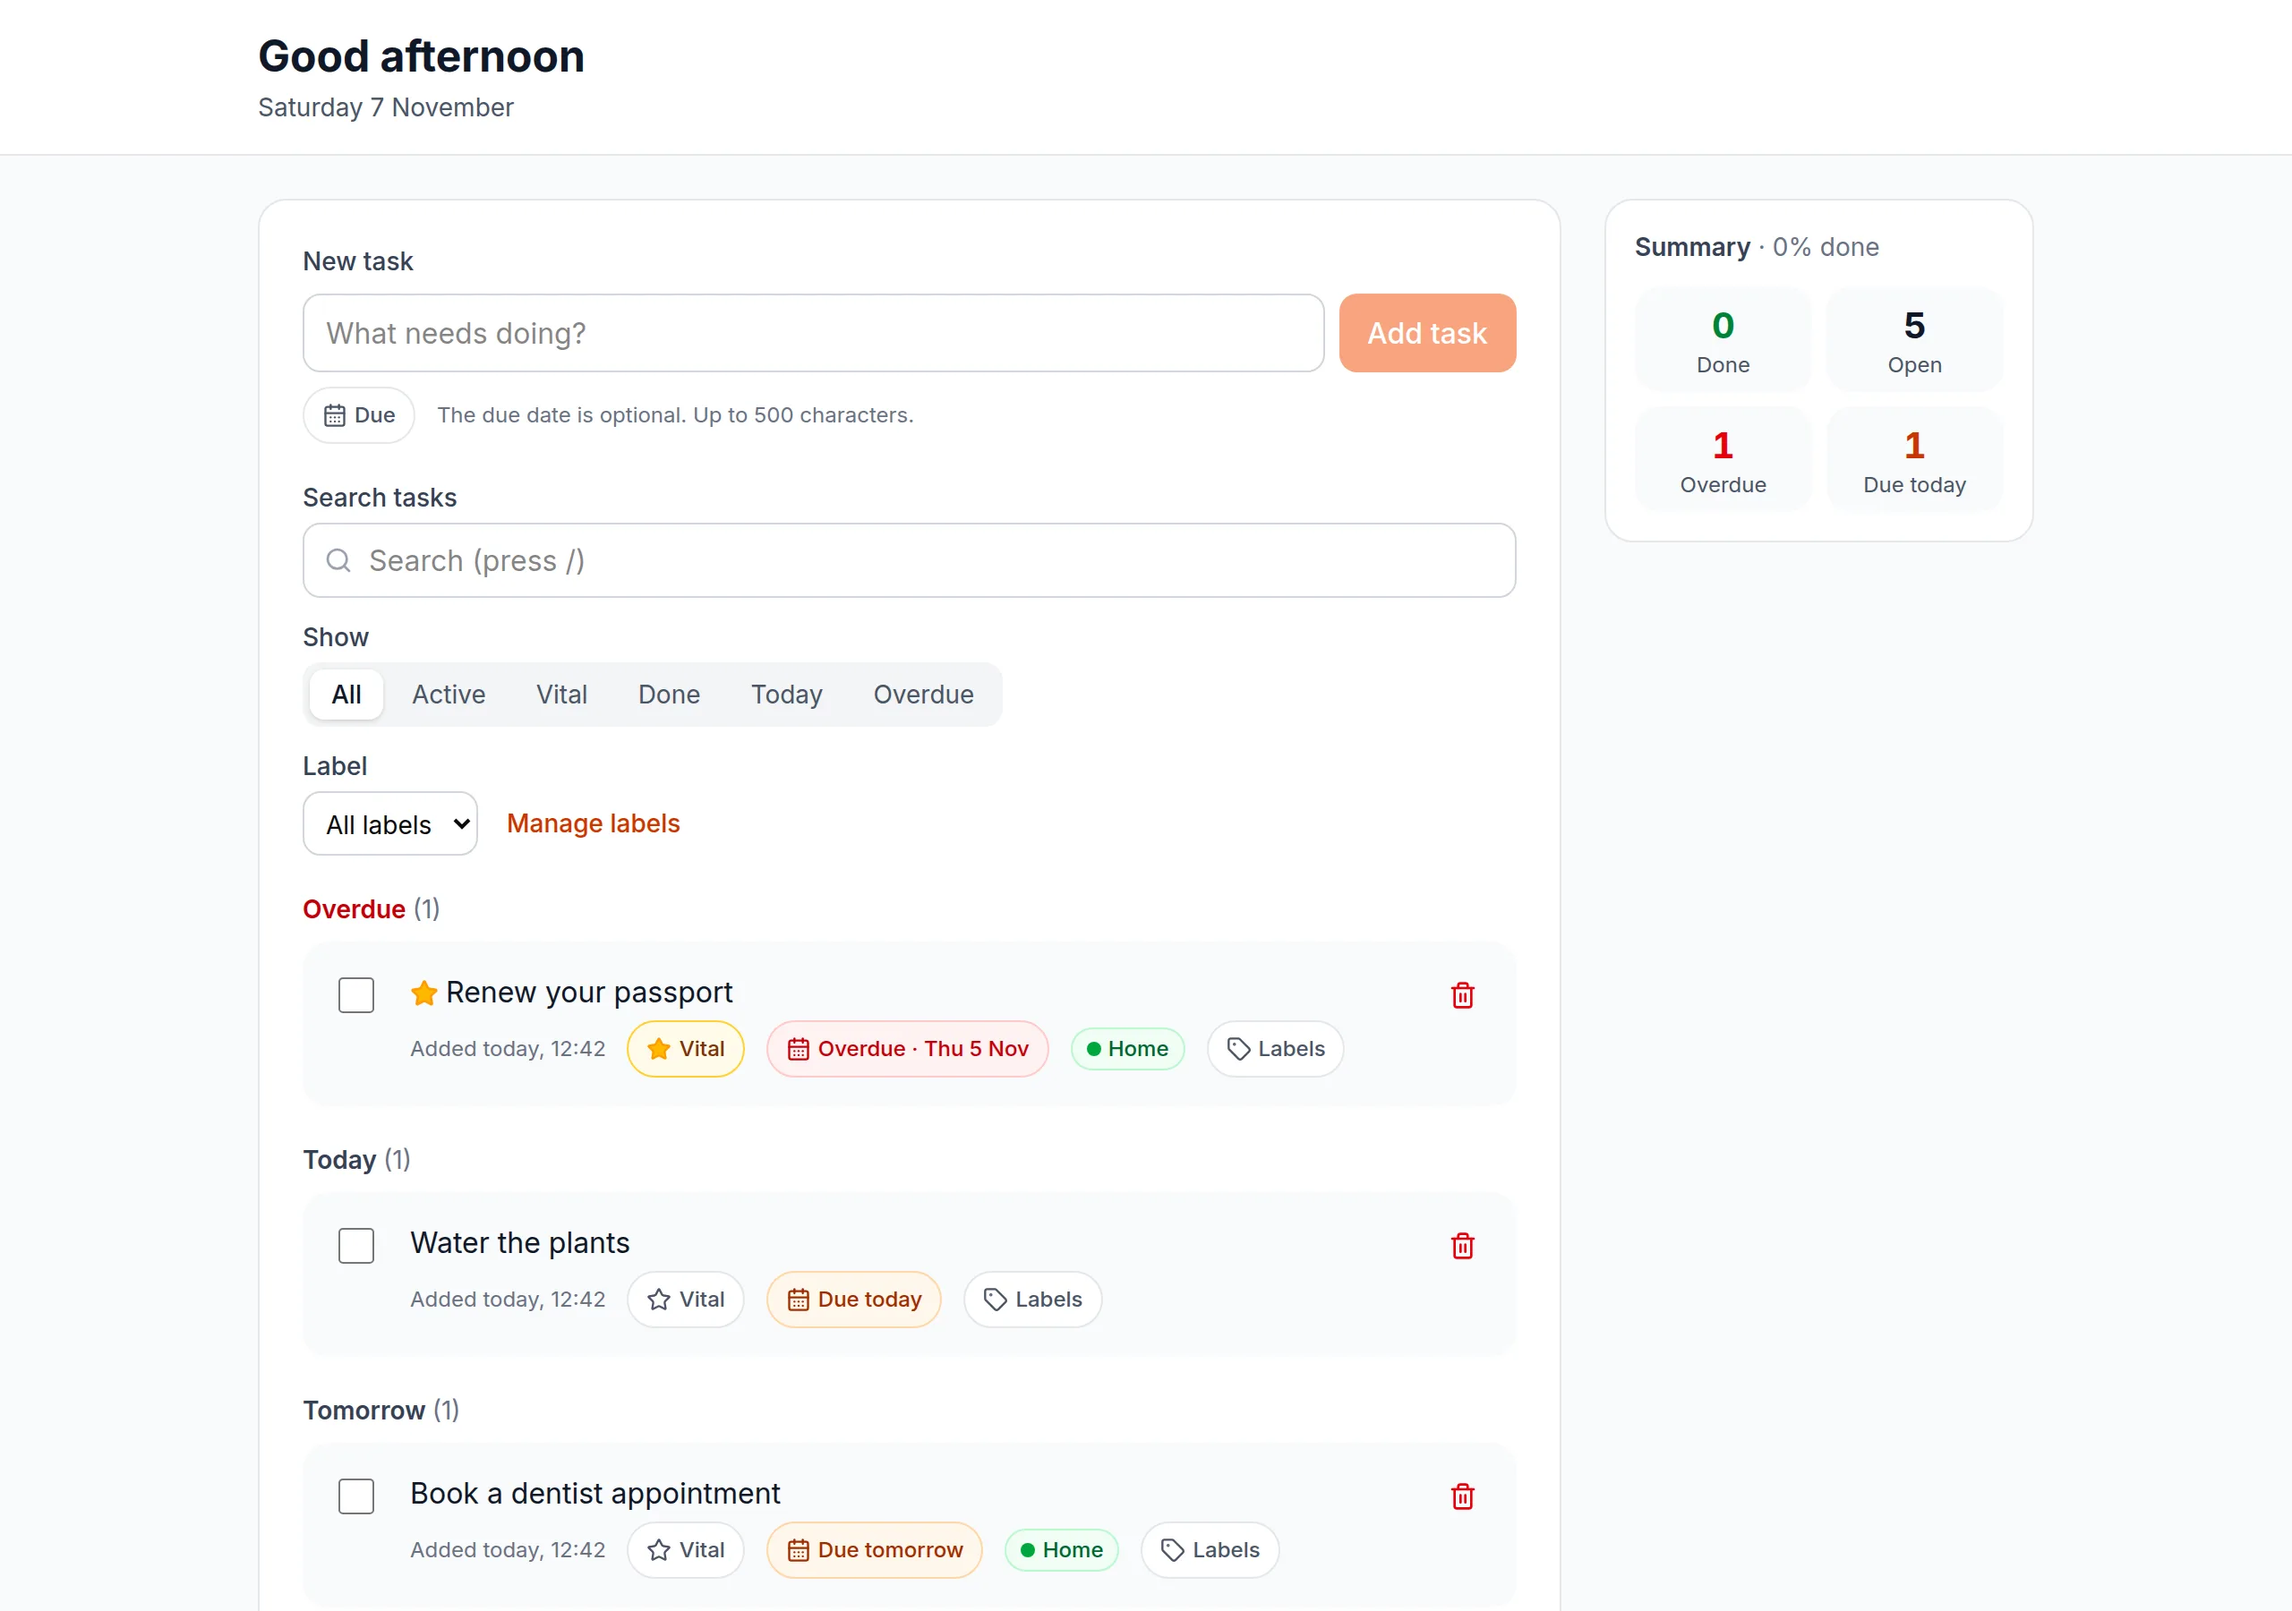
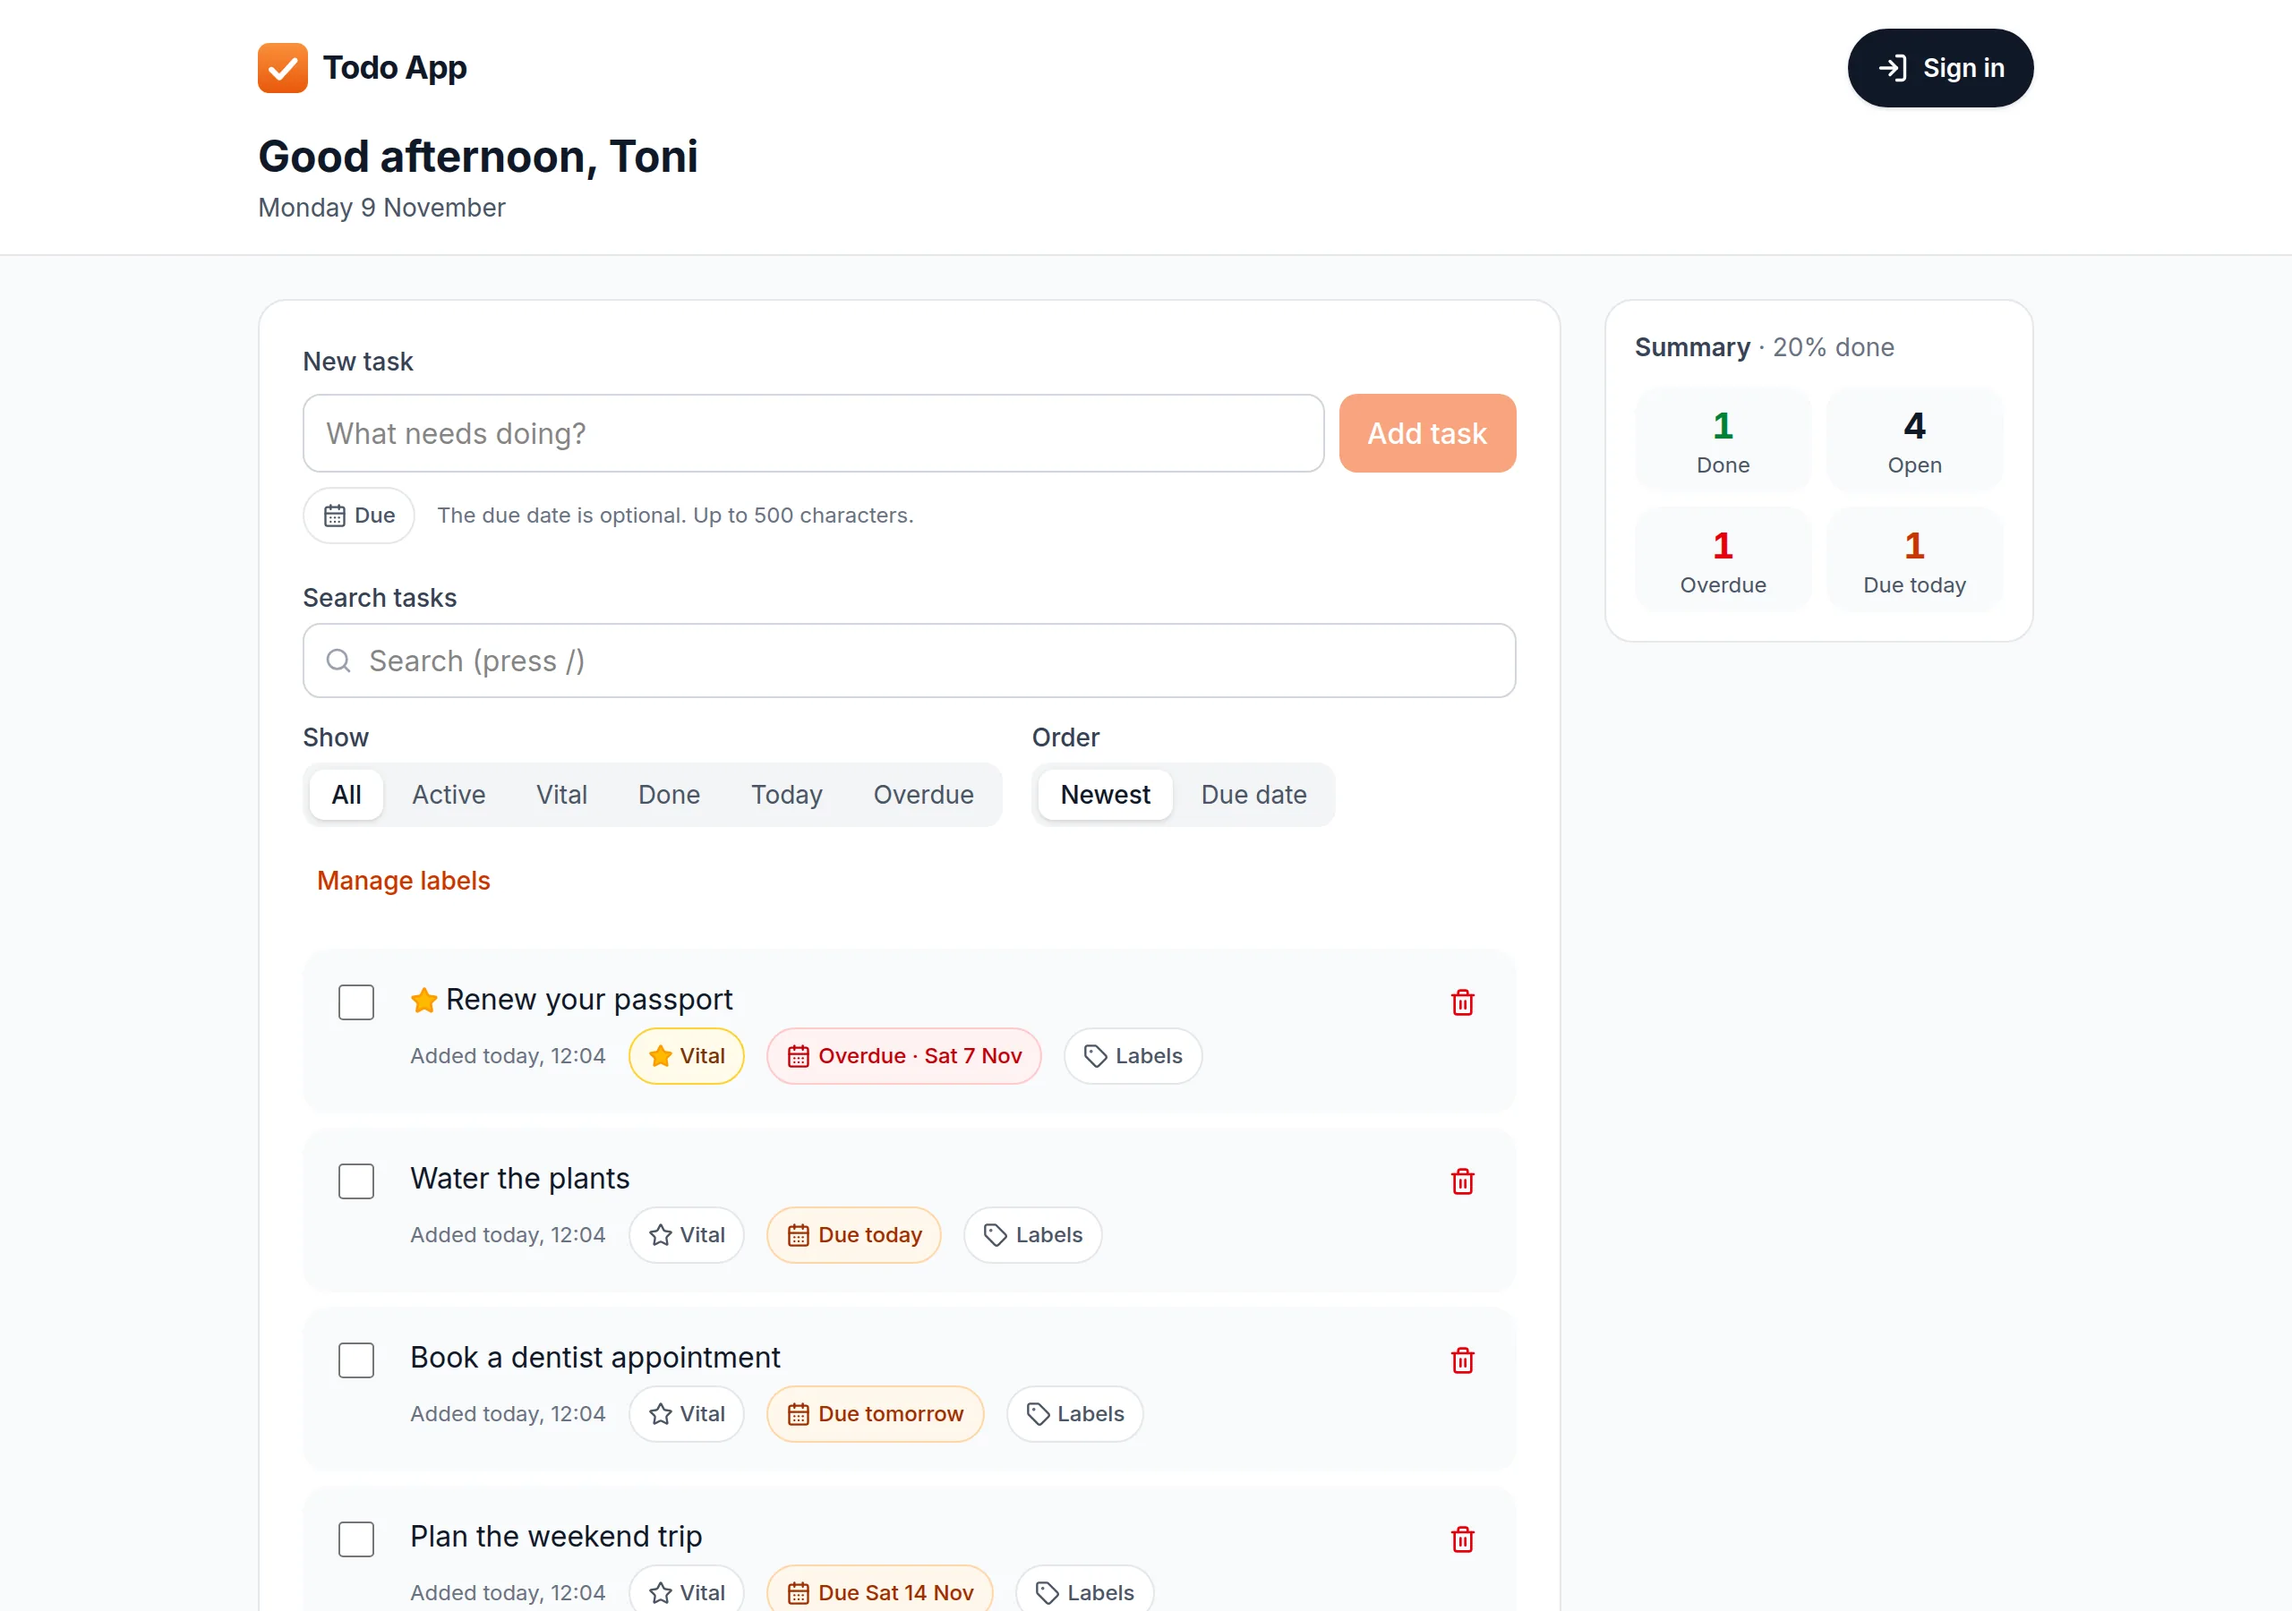
docs: the Phase 12 README, with screenshots and a demo GIF recorded from the current build

diff --git a/README.md b/README.md
@@ -1,26 +1,76 @@
 # Todo App
 
-A task list that keeps everything on your device: no account, nothing lost, and it's built for a phone first.
+A task list that lives on your device, works offline, and syncs across your devices only if you sign in.
 
-**[Open the live app →](https://todo-app-tsc-mauve.vercel.app/)**
+**[Open the live app →](https://todo.anthonyugwuja.dev)**
 
 <p>
-  <img src="docs/screenshots/app-phone.webp" alt="The app on a phone: a greeting with today's date, search and filters, then tasks grouped into Overdue and Today, each with when it was added, a due-date chip and labels." width="260">
-  <img src="docs/screenshots/app-desktop.webp" alt="The app on a desktop: the add form, search, filters and grouped tasks on the left, and a summary of done, open, overdue and due-today counts on the right." width="560">
+  <img src="docs/screenshots/app-phone.webp" alt="The app on a phone: the Todo App wordmark and a Sign in button, a greeting with today's date, search, the Show filters, the Order switch set to Newest, and the first tasks, each with when it was added, a Vital star and a due-date chip." width="260">
+  <img src="docs/screenshots/app-desktop.webp" alt="The app on a desktop: the add form, search, filters and the Order switch above the task list on the left, and a summary on the right showing 1 done, 4 open, 1 overdue and 1 due today." width="560">
 </p>
 
-- **Grouped by when it's due:** Overdue, Today, Tomorrow, Upcoming, No date and Done, re-grouped at midnight.
-- **Add, edit in place, complete, and delete with Undo** (Ctrl+Z works too).
-- **Vital tasks and colour labels**, with search and filters that survive a reload.
-- **Local-first:** your tasks live in your browser's IndexedDB and are never overwritten. Edits made in two tabs at once don't silently replace each other.
-- **Keyboard and screen-reader friendly:** `n` adds, `/` searches, there's a skip link, and axe finds no violations, contrast included.
+<picture>
+  <source media="(prefers-reduced-motion: reduce)" srcset="docs/screenshots/demo-still.webp">
+  <img src="docs/screenshots/demo.gif" alt="A ten-second recording: typing &quot;Buy oat milk&quot; adds it at the top of the list; ticking it moves it to the bottom, struck through; deleting it shows &quot;Deleted&quot; with an Undo button; pressing Undo brings it back." width="489">
+</picture>
+
+## Features
+
+- **Newest first or by due date:** a task you add appears at the top. Switch to Due date for Overdue, Today, Tomorrow, Upcoming, No date and Done groups, regrouped at midnight.
+- **Add, edit in place, complete, and delete with Undo** (Ctrl+Z or ⌘Z works too).
+- **Vital tasks and colour labels**, with search, filters and the order kept in the URL, so they survive a reload.
+- **Works offline and installs like an app:** everything it needs is cached on the first visit, so it opens and works without a connection.
+- **Optional Google sign-in** syncs tasks, labels and your greeting name across devices. Without it, nothing leaves the device.
+- **Nothing you write is lost:** edits in two tabs don't silently overwrite each other, and a deleted task stays deleted on every device.
+- **Keyboard and screen-reader friendly:** `n` adds, `/` searches, there's a skip link, changes are announced, and axe finds no violations.
+
+## How it's built
+
+1. **Local-first store:** IndexedDB through Dexie is the only thing the interface reads, so the app never waits on the network.
+2. **Optional sync:** signed in, rows push and pull in batches to Supabase Postgres under row-level security. A database trigger settles conflicts: last write wins, and a delete is final.
+3. **Static export:** `next build` emits plain files. There's no server of our own; the browser talks to Supabase directly.
+4. **Service worker:** precaches every exported file, never touches Supabase or Google requests, and only swaps versions when you press Reload.
+5. **Tests:** about 340 Vitest and Testing Library tests, axe checks, and database tests that prove one user can't read or write another's rows.
+
+Next.js 16 · React 19 · TypeScript · Tailwind CSS 4 · Dexie · Supabase · Vitest
 
 ## Run it
+
+You need Node 22.13 or later and pnpm.
 
 ```bash
 pnpm install
 pnpm dev        # http://localhost:3000
-pnpm test       # Vitest + Testing Library
+pnpm test       # unit and component tests
 ```
 
-Built with Next.js 16, React 19, TypeScript, Tailwind CSS 4 and Dexie. The reasoning behind each choice, including every adversarial code review and how it was answered, is in [`docs/decisions.md`](docs/decisions.md).
+Without a `.env.local`, the app runs guest-only: everything works on the device and the Sign in button is hidden. To turn on accounts, copy the example file and fill it in from your Supabase project (Project Settings → API Keys) and your Google OAuth client. Every value is public by design; the secret key is never needed.
+
+```bash
+cp .env.example .env.local
+```
+
+The service worker registers only in production builds:
+
+```bash
+pnpm build      # writes out/ and out/sw.js
+pnpm start      # serves out/ at http://localhost:3000
+```
+
+The database tests run against a local Supabase stack, which needs Docker:
+
+```bash
+pnpm test:db    # starts the local stack, resets it from supabase/migrations, runs the RLS and trigger tests
+```
+
+## If Supabase pauses the project
+
+Supabase's free plan pauses a project after 7 days without database activity, and emails a warning first. The app keeps working while it's paused: guests aren't affected, and a signed-in user sees "Accounts unavailable" while their changes wait on the device and sync once it's back.
+
+1. **The warning email arrives.** On GitHub, open Actions → *Keep Supabase awake* and check its last run. It calls `public.ping()` every 3 days. If it hasn't run, press **Run workflow**. GitHub disables scheduled workflows after 60 days without repository activity, so re-enable it if it's switched off. If it fails, check the `SUPABASE_URL` and `SUPABASE_PUBLISHABLE_KEY` repository variables.
+2. **The project is already paused.** In the Supabase dashboard, open the project and choose **Resume project**. It comes back with its data and settings in a few minutes. Supabase keeps a paused free project restorable only for a limited time, so resume it soon: the dashboard shows the deadline.
+3. **It paused even though the ping ran.** That means Supabase isn't counting a table-free query as activity. Switch the ping to a one-row read from a small `public.heartbeat` table, as `docs/plan.md` (Phase 9) describes.
+
+## The reasoning
+
+Every non-trivial choice, including each adversarial code review and how it was answered, is in [`docs/decisions.md`](docs/decisions.md). The phased plan is [`docs/plan.md`](docs/plan.md), and the audit it started from is [`docs/audit.md`](docs/audit.md).
